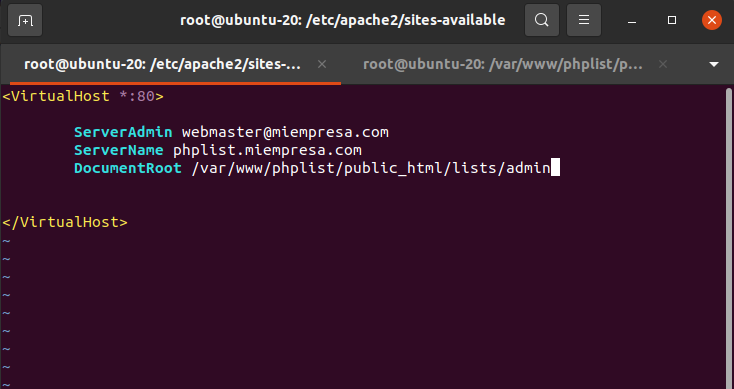
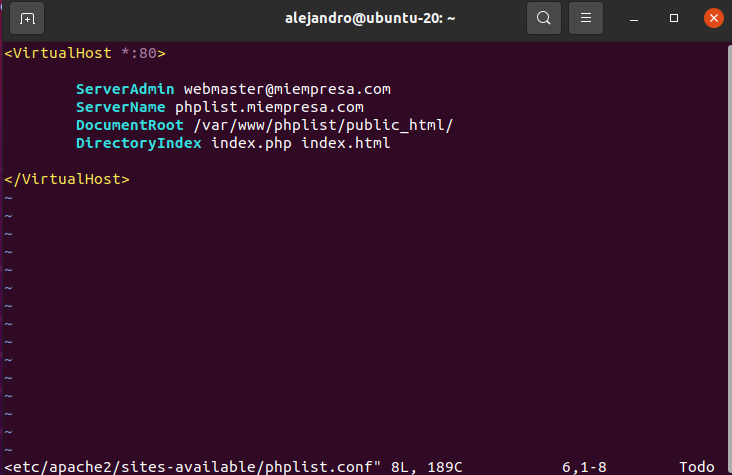
[U]

Changed region(s): [[0.0, 0.0, 1.0, 1.0], [0.7514, 0.9563, 0.8415, 1.0]]

diff --git a/tema7/p2-listas_distribucion-linux/README.md b/tema7/p2-listas_distribucion-linux/README.md
@@ -1,0 +1,81 @@
+# Listas de Distribución - Ubuntu 18.04
+
+```
+Alejandro de Paz Hernández
+```
+
+# 1. Introducción
+
+Vamos a instalar y configurar un servidor de mensajería instantánea, que nos permitirá establecer comunicación en tiempo real entre dos o más usuarios en formato texto. Para ello, utilizaremos el software **OpenFire** y **Spark**.
+
+---
+
+# 2. phpList
+
+> Para poder realizar la instalación de phpList, primero tendremos que tener instalado Apache, php y MySQL. 
+
+Descargamos el .zip de la página oficial de **[phplist](https://www.phplist.org/download-phplist/)**. A continuación, creamos una base de datos y un usuario con todos los privilegios sobre esta:
+
+![](img/1.png)
+
+Una vez creada la base de datos y el usuario, los añadimos en el fichero de configuración de **phpList** `/var/www/phplist/public_html/lists/config/config.php`:
+
+![](img/2.png)
+
+Añadimos un nuevo virtualhost en Apache y lo habilitamos:
+
+![](img/3.png)
+
+![](img/4.png)
+
+Si ahora nos dirigimos a `phplist.miempresa.com/lists/admin` desde un navegador, podremos empezar la instalación de **phpList** clickando en *Initialize database*:
+
+![](img/5.png)
+
+![](img/6.png)
+
+Una vez finalizado, tendremos acceso al panel de administración de **phpList**:
+
+![](img/7.png)
+
+Desde ahí, podemos crear nuevos usuarios, campañas, listas...
+
+* Para crear un usuario, nos vamos a `Suscriptores → Lista de todos los usuarios → Añadir un usuario`:
+
+![](img/15.png)
+
+* Para crear una lista, nos vamos a `Suscriptores → Lista de listas → Añadir una lista`:
+
+![](img/11.png)
+
+![](img/12.png)
+
+![](img/13.png)
+
+![](img/14.png)
+
+* Para configurar una página de suscripción, nos vamos a `Config → Páginas de inscripción → Añadir una página de inscripción`:
+
+![](img/17.png)
+
+![](img/18.png)
+
+![](img/19.png)
+
+* Para configurar una campaña, nos vamos a `Campaña → Enviar nueva campaña`:
+
+![](img/20.png)
+
+![](img/21.png)
+
+![](img/22.png)
+
+![](img/23.png)
+
+![](img/24.png)
+
+![](img/25.png)
+
+
+
+
